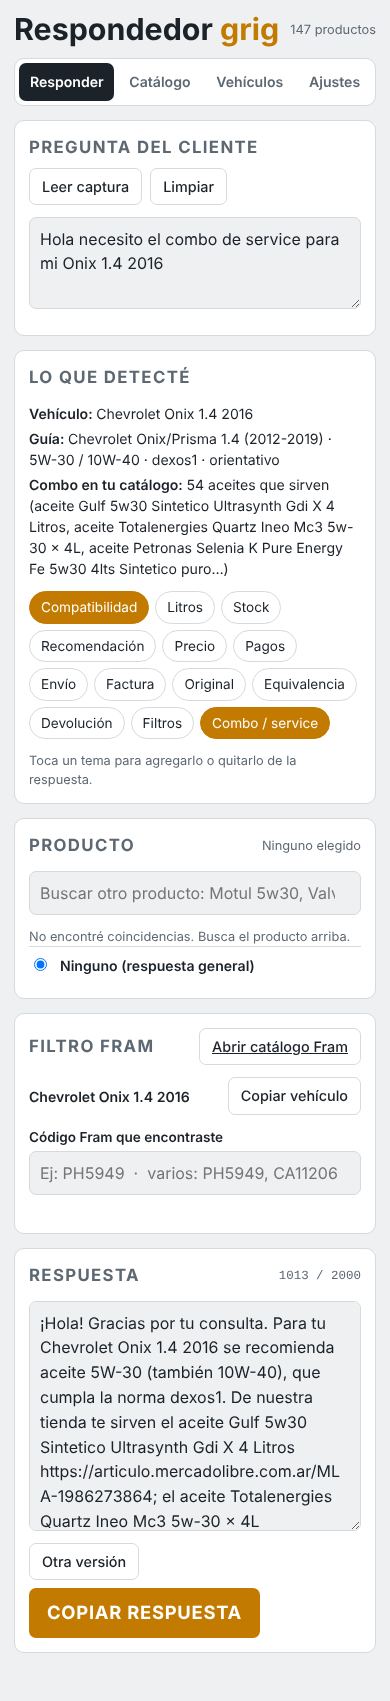
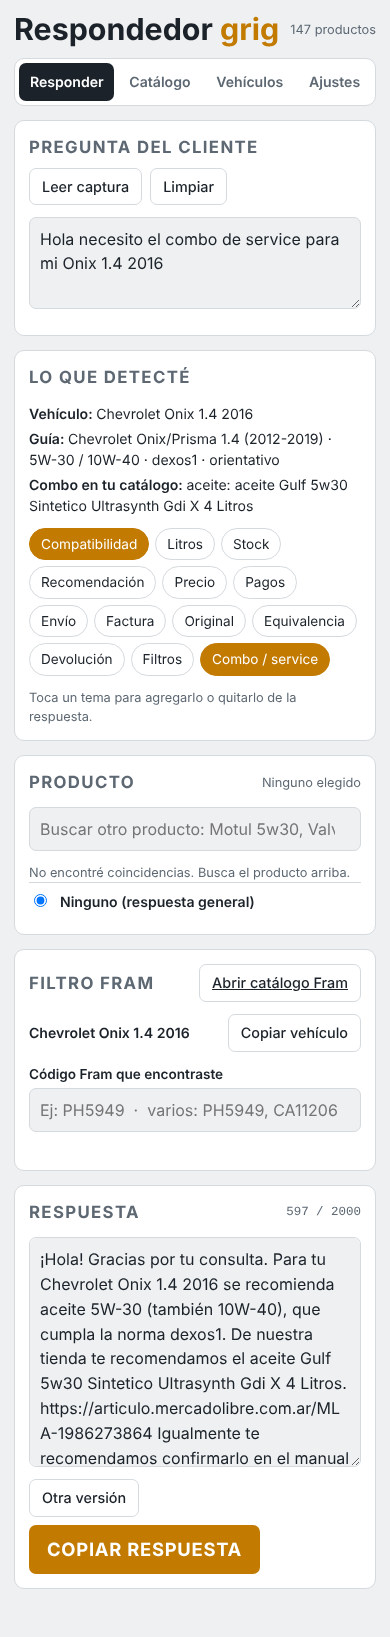
Volver a recomendar un solo aceite: el indicado para el vehículo
Revierte el cambio que ofrecía todos los aceites que sirven.

Claude-Session: https://claude.ai/code/session_019EL6JgXRSoakvXpns3krCf

diff --git a/index.html b/index.html
@@ -226,8 +226,6 @@ details[open] > .sub { display: grid; gap: 10px; margin-top: 10px; }
           <select id="sTrato"><option value="vos">Vos (Argentina)</option><option value="tu">Tú</option></select></div>
         <div class="field"><label for="sLink">Link en la respuesta</label>
           <select id="sLink"><option value="1">Sí, incluir link</option><option value="0">No incluir</option></select></div>
-        <div class="field"><label for="sMaxOils">Aceites a ofrecer por respuesta</label>
-          <select id="sMaxOils"><option value="3">Hasta 3</option><option value="5">Hasta 5</option><option value="8">Hasta 8</option><option value="99">Todos los que entren</option></select></div>
       </div>
       <div class="field"><label for="sDespedida">Despedida</label><input type="text" id="sDespedida"></div>
     </div>
@@ -559,7 +557,7 @@ const Engine = (() => {
     return null;
   }
   function comboFor(catalog, veh, g, q) {
-    const res = { oil: null, oils: [], filters: [] };
+    const res = { oil: null, filters: [] };
     if (!veh || !veh.model) return res;
     const mt = veh.model.split(" ");
     const has = (n, t) => new RegExp("(^|[^a-z0-9])" + t.replace(/[.+]/g, "\\$&") + "([^a-z0-9]|$)").test(n);
@@ -567,17 +565,11 @@ const Engine = (() => {
     if (gv) {
       const need = g.litros ? parseFloat(String(g.litros).replace(",", ".")) : 4;
       const qt = tokens(q).filter((t) => t.length > 3);
-      // Solo aceites de motor de auto: se excluyen moto, náutico, transmisión, frenos y aditivos
-      const NOT_ENGINE = /filtro|\b(2t|4t|moto|motos|nautic\w*|outboard|marine|kart|atf|cvt|transmision|trasmision|gear|caja|hidraulic\w*|direccion|dexron|mercon|frenos?|aditivo|limpia\w*|refrigerante|chain|cadena|cuatriciclos?)\b/;
-      const oils = catalog.filter((it) => { prep(it); return hasVisc(it._n, gv) && !NOT_ENGINE.test(it._n); });
+      const oils = catalog.filter((it) => { prep(it); return hasVisc(it._n, gv) && !/filtro|\b(2t|4t|moto)\b/.test(it._n); });
       // La norma del fabricante (ej. VW 507.00) en el título pesa más que el tamaño del envase
       const normaT = g.norma ? tokens(g.norma).filter((t) => /\d/.test(t) && t.length >= 3) : [];
       const sc = (it) => { const l = litersOf(it.t) || 0; return (l >= need ? 3 : 0) - Math.abs(l - need) / 10 + (qt.some((b) => it._n.includes(b)) ? 2 : 0) + (normaT.some((t) => it._n.includes(t)) ? 4 : 0); };
-      res.oils = oils.sort((a, b) => sc(b) - sc(a));
-      // La viscosidad alternativa de la guía (ej. "también 10W-40") también sirve: va después
-      const av = g.alt ? viscOf(g.alt)[0] : null;
-      if (av && av !== gv) res.oils.push(...catalog.filter((it) => hasVisc(it._n, av) && !NOT_ENGINE.test(it._n)).sort((a, b) => sc(b) - sc(a)));
-      res.oil = res.oils[0] || null;
+      res.oil = oils.sort((a, b) => sc(b) - sc(a))[0] || null;
     }
     const byCat = {};
     catalog.forEach((it) => {
@@ -596,13 +588,7 @@ const Engine = (() => {
   }
 
   function compose(ctx) {
-    const { intents, prod, veh, guide, options = [], alt, combo = { oil: null, oils: [], filters: [] }, fram = [], settings: S, seed = 0, q = "", maxOils = 5 } = ctx;
-    // Lista de aceites que sirven, cada uno con su link: "el X link; el Y link y el Z link"
-    const oilList = (list) => {
-      const parts = list.slice(0, maxOils).map((it) => "el " + prodName(it.t) + lk(it));
-      return parts.length > 1 ? parts.slice(0, -1).join("; ") + " y " + parts[parts.length - 1] : parts[0] || "";
-    };
-    const goodOils = (combo.oils || []).filter((it) => !prod || keyOf(it) !== keyOf(prod));
+    const { intents, prod, veh, guide, options = [], alt, combo = { oil: null, filters: [] }, fram = [], settings: S, seed = 0, q = "" } = ctx;
     const pick = (key, arr) => arr[(seed + hash(key)) % arr.length];
     const P = prod ? prodName(prod.t) : "";
     const isFilter = prod && /filtro/i.test(prod.t);
@@ -629,11 +615,9 @@ const Engine = (() => {
       if (parts.length) out.push("Para tu " + veh.label + " " + parts.join(" y ") + ".");
       if (prod && pv && gv) {
         if (pv === gv) out.push(pick("ok", ["El " + P + " cumple con esa viscosidad, así que es el indicado.", "El " + P + " es " + fmtVisc(pv) + ", así que te va perfecto."]));
-        else out.push("El " + P + " es " + fmtVisc(pv) + ", por eso te recomendamos un " + fmtVisc(gv) + (goodOils.length ? ". De nuestra tienda te sirven " + oilList(goodOils) + "." : "."));
+        else out.push("El " + P + " es " + fmtVisc(pv) + ", por eso te recomendamos un " + fmtVisc(gv) + (alt ? ": el " + prodName(alt.t) + " es ideal." : "."));
       } else if ((!prod || isFilter) && oilTalk && combo.oil) {
-        const n = Math.min(goodOils.length, maxOils);
-        out.push(n > 1 ? pick("oilrec", ["De nuestra tienda te sirven " + oilList(goodOils) + ".", "Tenemos estas opciones para tu auto: " + oilList(goodOils) + "."])
-          : "De nuestra tienda te recomendamos " + oilList(goodOils) + ".");
+        out.push(pick("oilrec", ["De nuestra tienda te recomendamos el " + prodName(combo.oil.t) + ".", "El ideal de nuestra tienda es el " + prodName(combo.oil.t) + "."]) + lk(combo.oil));
       }
       if (guide.nota) out.push("Dato útil: " + guide.nota + ".");
       if (guide.pre && parts.length) out.push("Igualmente te recomendamos confirmarlo en el manual del vehículo.");
@@ -710,7 +694,7 @@ const Engine = (() => {
     if (intents.has("devolucion") && S.devolucion) out.push(S.devolucion);
     if (intents.has("combo")) out.push("Podés sumar el aceite y los filtros al carrito y comprarlos juntos.");
 
-    const linkProd = pv && gv && pv !== gv ? null : (wantsFilters && !isFilter && !vehTalk ? null : prod);
+    const linkProd = alt && pv && gv && pv !== gv ? alt : (wantsFilters && !isFilter && !vehTalk ? null : prod);
     const l = lk(linkProd);
     if (l) out.push(pick("link", ["Podés agregarlo al carrito desde acá:", "Te dejo el link para que lo agregues al carrito:"]) + l);
 
@@ -807,7 +791,7 @@ const Engine = (() => {
     set(k, v) { try { localStorage.setItem("grig." + k, JSON.stringify(v)); return true; } catch { toast("No se pudo guardar en este navegador."); return false; } },
   };
   const DEFAULTS = {
-    trato: "vos", link: "1", maxOils: "5",
+    trato: "vos", link: "1",
     despedida: "¡Quedamos a disposición! Saludos, equipo grig.",
     envio: "Hacemos envíos a todo el país por Mercado Envíos. En la publicación podés ver cuándo te llega según tu código postal; en muchas zonas llega en el día.",
     factura: "Sí, emitimos factura. Una vez hecha la compra, cargá tus datos de facturación en Mercado Libre.",
@@ -905,7 +889,7 @@ const Engine = (() => {
         if (g) fact("Guía", E.vehName(g) + (g.y1 ? " (" + g.y1 + "-" + g.y2 + ")" : "") + " · " + [g.visc + (g.alt ? " / " + g.alt : ""), g.litros && g.litros + " L", g.norma, g.fa].filter(Boolean).join(" · ") + (g.pre ? " · orientativo" : ""));
         else if (m.options.length > 1) fact("Según motor", m.options.slice(0, 4).map((v) => v.motor + " " + v.y1 + "-" + v.y2 + ": " + v.visc).join(" | "), "warn");
         else fact("Guía", "este vehículo no está en la guía (cárgalo en Vehículos)", "warn");
-        const parts = [combo.oils.length && (combo.oils.length === 1 ? "aceite: " + E.prodName(combo.oil.t) : combo.oils.length + " aceites que sirven (" + combo.oils.slice(0, 3).map((x) => E.prodName(x.t)).join(", ") + (combo.oils.length > 3 ? "…" : "") + ")"), ...combo.filters.map((x) => "filtro de " + x.cat + ": " + E.prodName(x.it.t))].filter(Boolean);
+        const parts = [combo.oil && "aceite: " + E.prodName(combo.oil.t), ...combo.filters.map((x) => "filtro de " + x.cat + ": " + E.prodName(x.it.t))].filter(Boolean);
         fact("Combo en tu catálogo", parts.length ? parts.join(" · ") : "no encontré productos que nombren este vehículo", parts.length ? "" : "warn");
       }
       const vs = E.viscOf(q); if (vs.length) fact("Viscosidad", vs.map((v) => v.toUpperCase().replace("W", "W-")).join(", "));
@@ -945,10 +929,7 @@ const Engine = (() => {
       /(combustible|nafta|gasoil)/.test(nq) && /filtro/.test(nq) && "combustible", /(habitaculo|polen|cabina|aire acondicionado)/.test(nq) && "habitáculo"].filter(Boolean);
     const framAns = wanted.length ? fram.filter((f) => !f.cat || wanted.includes(f.cat)) : fram;
 
-    const ctx = { intents, prod, veh, guide: g, options: m.options, alt, combo, fram: framAns, settings: { ...settings, link: settings.link === "1" }, seed: state.seed, q };
-    let maxOils = Number(settings.maxOils) || 5, ans = E.compose({ ...ctx, maxOils });
-    while (ans.length > 2000 && maxOils > 1) ans = E.compose({ ...ctx, maxOils: --maxOils });
-    $("answer").value = ans;
+    $("answer").value = E.compose({ intents, prod, veh, guide: g, options: m.options, alt, combo, fram: framAns, settings: { ...settings, link: settings.link === "1" }, seed: state.seed, q });
     updateCount();
     renderBank(q);
   }
@@ -1258,7 +1239,7 @@ const Engine = (() => {
   });
 
   // ---- Ajustes
-  const SET_FIELDS = { sTrato: "trato", sLink: "link", sMaxOils: "maxOils", sDespedida: "despedida", sEnvio: "envio", sFactura: "factura", sPago: "pago", sOriginal: "original", sDevolucion: "devolucion" };
+  const SET_FIELDS = { sTrato: "trato", sLink: "link", sDespedida: "despedida", sEnvio: "envio", sFactura: "factura", sPago: "pago", sOriginal: "original", sDevolucion: "devolucion" };
   function loadSettingsForm() { Object.entries(SET_FIELDS).forEach(([id, k]) => ($(id).value = settings[k] ?? "")); }
   Object.entries(SET_FIELDS).forEach(([id, k]) => $(id).addEventListener("input", () => { settings[k] = $(id).value; store.set("settings", settings); update(); }));
   $("resetSettings").addEventListener("click", () => { settings = { ...DEFAULTS, trato: settings.trato, link: settings.link }; store.set("settings", settings); loadSettingsForm(); update(); toast("Textos restablecidos."); });
